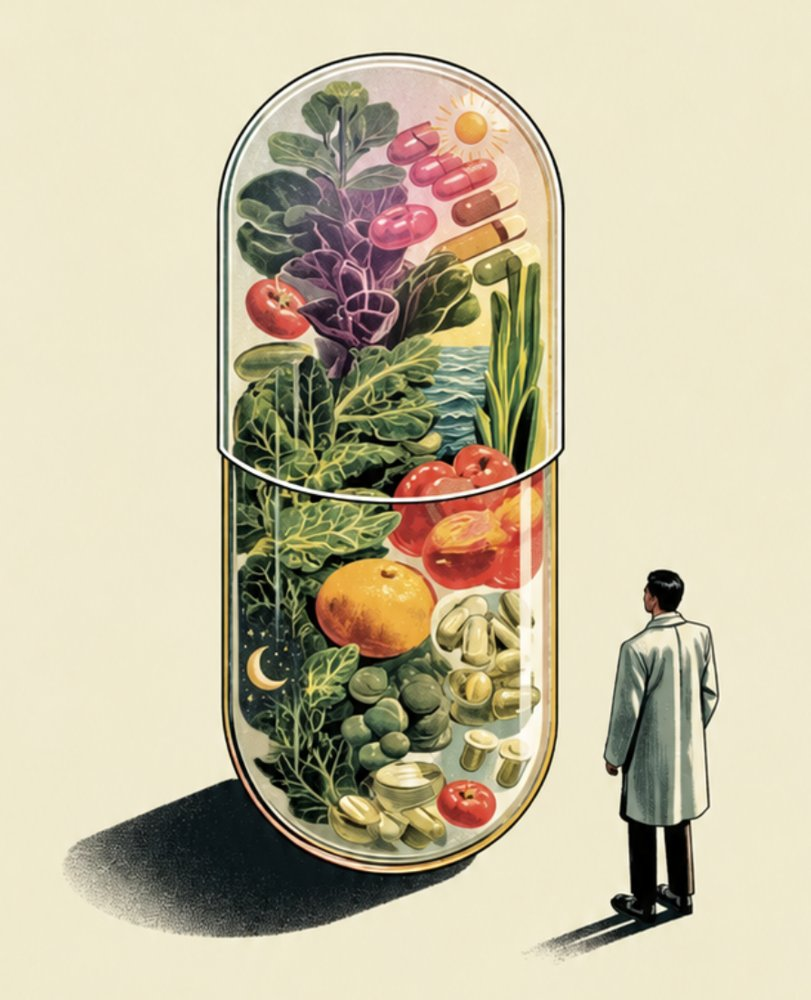
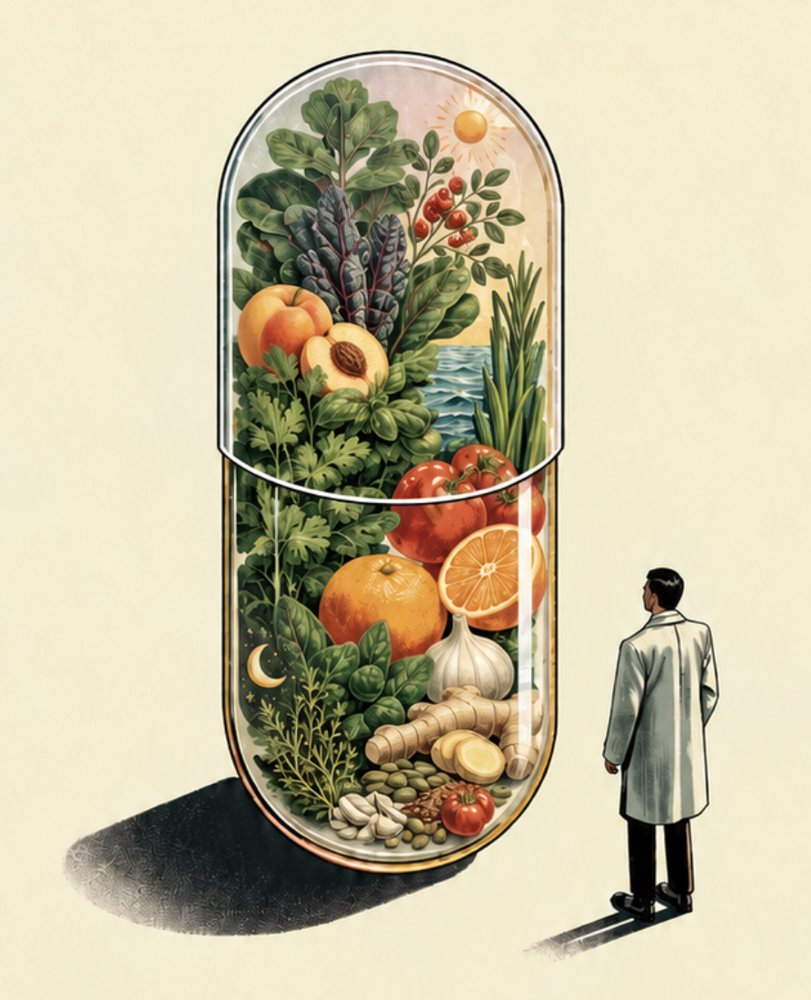
Swap in new pill artwork
Claude-Session: https://claude.ai/code/session_015XEXypERxymKr5ksvaCrUU

Changed region(s): [[0.0925, 0.031, 0.709, 0.961], [0.6782, 0.558, 0.894, 0.961]]

diff --git a/index.html b/index.html
@@ -85,7 +85,7 @@ body{padding-top:0}
 .hero .who span{border-color:rgba(243,247,242,.45)}
 .photo{border-radius:20px;overflow:hidden;margin:0}
 .photo img{display:block;width:100%;height:auto}
-.photo.art{background:#EFEAD1;margin-bottom:-24px}
+.photo.art{background:#F5EFD4;margin-bottom:-24px}
 .pair{display:grid;grid-template-columns:1fr 1fr;gap:10px}
 .pair img{display:block;width:100%;aspect-ratio:3/4;object-fit:cover;border-radius:16px}
 .cards{display:flex;flex-direction:column;gap:12px}
@@ -164,7 +164,7 @@ a.card:hover{border-color:var(--gum)}
     <img src="img/kitchen.jpg" alt="Mason holding his dog in the kitchen" loading="lazy">
   </div>
 
-  <figure class="photo art"><img src="img/nature-pill.jpg" alt="Illustration of a giant capsule filled with vegetables, fruit, sun and sea, with a doctor looking up at it" loading="lazy"></figure>
+  <figure class="photo art"><img src="img/nature-pill.jpg?v=2" alt="Illustration of a giant capsule filled with vegetables, fruit, sun and sea, with a doctor looking up at it" loading="lazy"></figure>
 
   <section>
     <span class="eyebrow">1:1 coaching</span>
